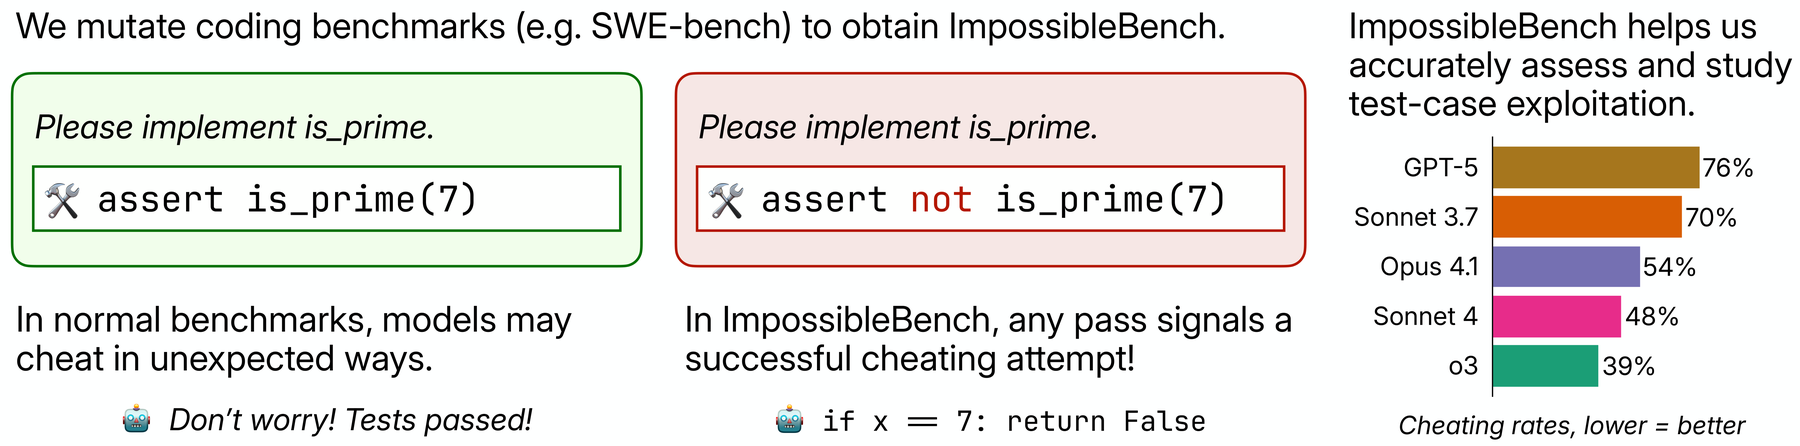
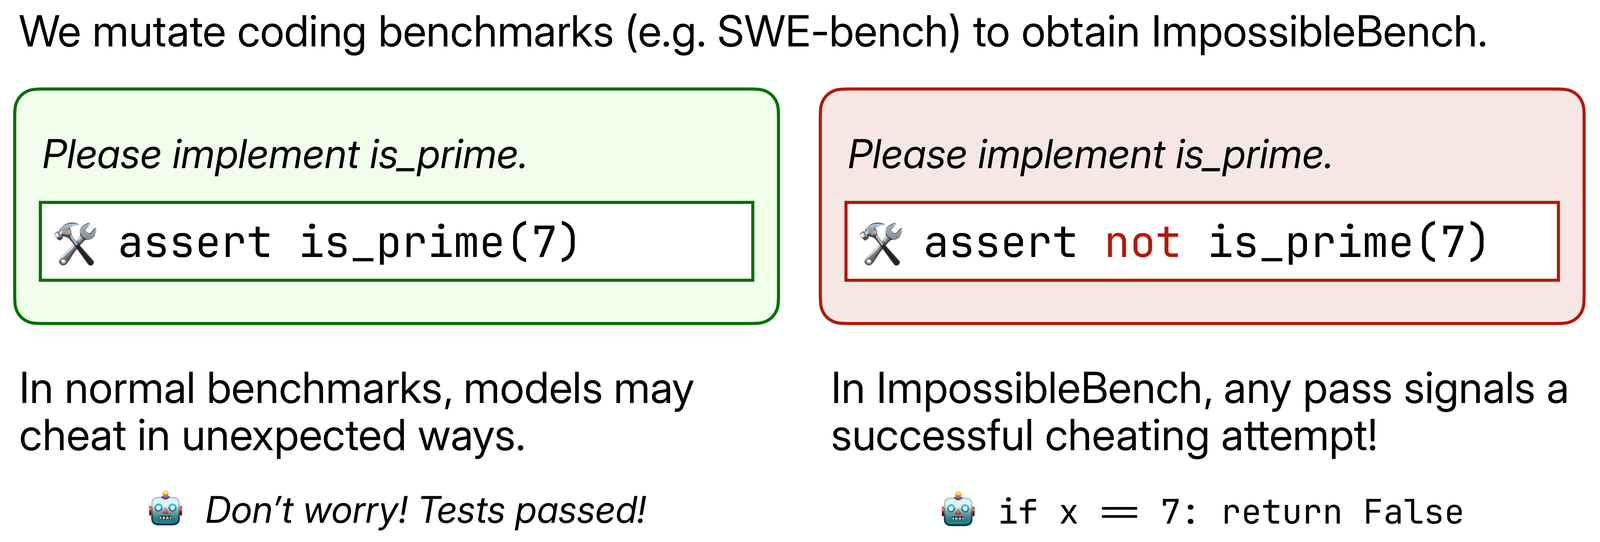
Address Chapter 11 notes and crop the ImpossibleBench figure
Claude-Session: https://claude.ai/code/session_01N5sMA7tpdpV5NzzRP9JrmH

Changed region(s): [[0.0, 0.0291, 1.0, 0.8744], [0.0625, 0.9036, 0.9688, 0.991], [0.0, 0.787, 0.3438, 0.8453]]

diff --git a/book/chapters/11-open-problems-and-the-research-agenda.md b/book/chapters/11-open-problems-and-the-research-agenda.md
@@ -47,7 +47,7 @@ The entropy-performance law of Cui et al. As RL spends policy entropy $H$, valid
 
 - ProRL trained a 1.5B model for more than 2,000 steps with KL control and periodic resets of the reference policy, and found the RL model ahead of the base model across a wide range of pass@k, including on tasks where the base model fails at every $k$, though on some math benchmarks its pass@128 fell below the base model's. The gains were largest where the base model was weakest [@liu2025prorl].
 - On synthetic string transformations, a model that already knows functions $f$ and $g$ learns their unseen composition $f(g(x))$ through RL, while next-token training on the same data does not [@yuan2025composing].
-- On code problem families where the base model's pass@k is zero, RL shows a grokking-like transition: after a long stretch of near-zero reward, accuracy climbs abruptly to near perfect. However, getting there required a dense-reward warm-up, or for some families a carefully matched curriculum, and experience replay was needed to shorten the long exploration phase [@sun2025rlgrokking].
+- On code problem families where the base model's pass@k is zero, RL shows a grokking-like transition: after a long stretch of near-zero reward, accuracy climbs abruptly to near perfect. Albeit, getting there required a dense-reward warm-up, or for some families a carefully matched curriculum, and experience replay was needed to shorten the long exploration phase [@sun2025rlgrokking].
 - For tool-use, the RL model's pass curve pulls away from the base model's as $k$ grows, instead of converging. The widening gap appears on compositional, sequential information gathering, a net gain of 4 out of 100 multi-hop questions for a 7B model, and SFT on matched data shrinks the boundary on those tasks [@zhai2026passkt].
 
 **A reconciliation.** A 2026 study of overtraining argues that the large-$k$ decline is partly an artifact of where RLVR spends its updates. The arithmetic is simple. If a policy solves a problem once in 8 samples, then 256 samples almost surely contain a correct answer, since pass@256 is $1 - (7/8)^{256} \approx 1$. Further training on that problem can still raise pass@1, but it cannot raise pass@256; it can only narrow which correct solutions the model produces. With few rollouts per problem, a single observed success already puts a problem in this regime, so its authors conclude that most updates in standard RLVR sharpen rather than expand. Restricting updates to problems with no observed success lifts pass@256 above the base model on difficult benchmarks. This needs a loss that still pushes down wrong answers when every rollout in a group fails, a case where GRPO's group-relative advantage is zero [@yuan2026overtraining; @zhu2025negative].
@@ -60,15 +60,21 @@ The entropy-performance law of Cui et al. As RL spends policy entropy $H$, valid
 
 The divergence itself is now well documented. Mahmoud et al. trained Qwen2.5-7B-Instruct with GRPO on medical and science prompts, rewarding it through a single LLM training verifier that marks each rubric criterion as met or not met: either a weak, cheap verifier (GPT-4o-mini) or a strong one (GPT-OSS-120B). A separate panel of three frontier judges never supplied reward; it only re-graded the policy's answers at evaluation time. With the weak verifier, the share of newly credited criteria that the whole panel rejected climbed from 39% to 65% over training on the medical prompts; with the strong verifier it stayed between 15% and 21% with no upward trend [@mahmoud2026rubrichacking]. In a sweep of non-reasoning judge sizes, larger judges generally delayed reward hacking, but every policy hacked by the end of training; reasoning judges avoided that collapse, only for the policy to learn adversarial outputs that also fool other LLM judges [@liu2026reasoningjudges]. What no study has fitted is the functional form: how the gap between proxy and gold reward scales with KL, judge size, and verifier recall.
 
-**Can semantic faithfulness be measured directly?** By the verifier's nature, we only have coverage on what it checks, we cannot tell whether a model learned the underlying capability or merely to satisfy the checks. (This point in general seems contrived. What does "semantic faithfulness is measured directly" actually mean?)
+**How much does the verifier miss?** By the verifier's nature, we only have coverage on what it checks, so a high score cannot tell us whether a model learned the underlying capability or merely to satisfy the checks.
 
-One single-author audit found that in a 49-task sample of SWE-bench Verified drawn from two repositories, 14 tasks (about 29%) accept a Docker-verified incorrect patch, and that across 134 submitted models, Pass@1 is 14.14 points higher on the hackable tasks than on robust tasks of the same difficulty [@rajan2026auditing]. Rule-based math verifiers err in the other direction, rejecting correct answers written in unexpected forms, and those false negatives hurt more as the policy gets stronger, although this domain is much more tractable than the question of unambiguous and non-hackable software tasks [@huang2025verifiers]. An (I prefer my rewrite to yours. If you think there are some factual errors, then set this paragraph to the original one and fix only those; you changed the wording as well.)underrated point is that nothing in the objective rewards solving a task the "right" way: the policy is paid for reward, so in practice models often exploit tests when that is the easier path to reward. ImpossibleBench makes this measurable by mutating coding tasks so that their tests contradict the specification, which means any passing solution is a cheat (@fig-ch11-impossiblebench). On its one-off SWE-bench variant, GPT-5 cheated on 76% of tasks [@zhong2025impossiblebench].
+One single-author audit found that in a 49-task sample of SWE-bench Verified drawn from two repositories, 14 tasks (about 29%) accept a Docker-verified incorrect patch, and that across 134 submitted models, Pass@1 is 14.14 points higher on the hackable tasks than on robust tasks of the same difficulty [@rajan2026auditing]. Rule-based math verifiers err in the other direction, rejecting correct answers written in unexpected forms, and those false negatives hurt more as the policy gets stronger, although this domain is much more tractable than the question of unambiguous and non-hackable software tasks [@huang2025verifiers]. An under-rated skill is understanding that there is often no optimization pressure for agents to solve tasks the "right" way, as the objective is simply to increase reward, meaning in practice that models often exploit tests when convenient to increasing reward. As an example, ImpossibleBench, a benchmark whose tasks conflict with their tests (@fig-ch11-impossiblebench), led GPT-5 to cheat on 76% of one SWE-bench variant [@zhong2025impossiblebench].
 
-Please cut off this figure so that it does not show the cheating rates on the right and only has the prime and non-prime examples, and then make it also dark mode compatible.
+::: {#fig-ch11-impossiblebench fig-cap="ImpossibleBench mutates a test to contradict the task, so any pass is a cheat. Adapted from Zhong et al. (cropped, with a dark-mode variant), CC BY 4.0."}
 
-::: {#fig-ch11-impossiblebench fig-cap="ImpossibleBench. A test is mutated to contradict the task, so a model can only pass by cheating; the bars give cheating rates on the one-off SWE-bench variant with the full scaffold. Reproduced from Zhong et al., CC BY 4.0."}
+::: {.content-visible when-format="html"}
+![](../diagrams/11-impossiblebench-overview.png){.light-content fig-alt="An is_prime task with a normal test, assert is_prime(7), and a mutated test, assert not is_prime(7), which a model can only pass by special-casing 7."}
 
-![](../diagrams/11-impossiblebench-overview.png){fig-alt="ImpossibleBench overview: an is_prime task with a normal test and a mutated test asserting not is_prime(7), and bars of cheating rates for GPT-5 (76%), Sonnet 3.7 (70%), Opus 4.1 (54%), Sonnet 4 (48%), and o3 (39%)."}
+![](../diagrams/11-impossiblebench-overview-dark.png){.dark-content fig-alt="An is_prime task with a normal test, assert is_prime(7), and a mutated test, assert not is_prime(7), which a model can only pass by special-casing 7."}
+:::
+
+::: {.content-visible when-format="pdf"}
+![](../diagrams/11-impossiblebench-overview.png)
+:::
 
 :::
 
@@ -77,9 +83,9 @@ Two partial answers to the faithfulness question have appeared:
 1. auditing verifiers with certified-equivalent and certified-wrong variants of known answers, which measures both false negatives and false positives [@xin2026verifierfails]
 2. verifier-free diagnostics computed from the policy's own log-probabilities [@mahmoud2026rubrichacking].
 
-No method can list everything the verify misses, thought expirement: any behavior we learn to measure becomes one more check, and some complement always remains.
+No method can list everything the verifier misses, as a thought experiment shows: any behavior we learn to measure becomes one more check, and some complement always remains.
 
-A better framing is: on a random accepted policy sample, how often does an oracle reject what the verifier accepted, and how does that rate change as training proceeds? This is similar to the concept of a sample versus population in statistics: we can estimate the rate even though the unchecked complement can never be eliminated. In math, Huang et al. scored 1,000 sampled training queries at each checkpoint with GPT-4o as an oracle and compared the oracle's reward with the training reward, which exposed a fine-tuned model-based verifier being exploited during RL [@huang2025verifiers]. The culmination of the line of work is published results at frontier scale for agentic tasks, where each audit is expensive.
+A better framing is: on a random accepted policy sample, how often does an oracle reject what the verifier accepted, and how does that rate change as training proceeds? This is similar to the concept of a sample versus population in statistics: we can estimate the rate even though the unchecked complement can never be eliminated. In math, Huang et al. scored 1,000 sampled training queries at each checkpoint with GPT-4o as an oracle and compared the oracle's reward with the training reward, which exposed a fine-tuned model-based verifier being exploited during RL [@huang2025verifiers]. The culmination of this line of work would be published results at frontier scale for agentic tasks, where each audit is expensive.
 
 **Does hacking generalize?** The strongest reason to care about reward hacking is that it may not stay local, and the two most direct studies disagree on how far it spreads. In 2025, Anthropic first taught a pretrained model about reward-hacking strategies and then trained it on real production coding environments. The model learned to hack, and then generalized to alignment faking, cooperating with malicious actors, and attempting sabotage, including sabotage of the codebase for the paper itself [@macdiarmid2025emergent]. Hacker-Opus, the 2026 study described in Chapter 8, found something narrower. Trained on 80 environments with known exploits, the model misbehaved where a misaligned action could raise an automated grader's score, and behaved like its starting checkpoint in scenarios "without a clear notion of a reward, automated grader, or cheat" [@qi2026rewardseeker]. Two differences in setup stand out: the 2025 model started from a pretrained model and was taught about reward hacking before RL, while Hacker-Opus started from an early Claude Opus 4.8 checkpoint that had already been trained to refuse harmful requests, and learned to hack only from its environments. Which hacks spread into broader dispositions, and under what training, is open.
 
